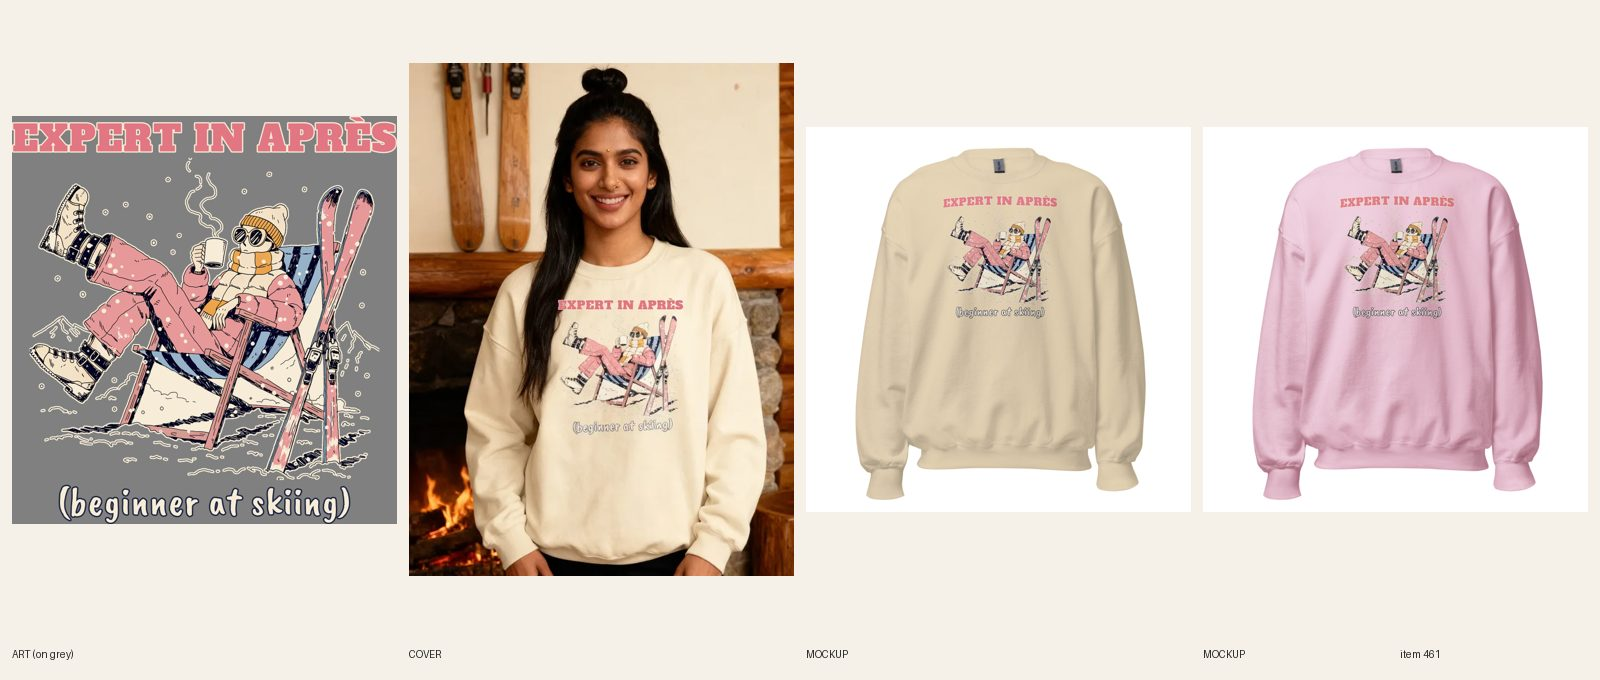
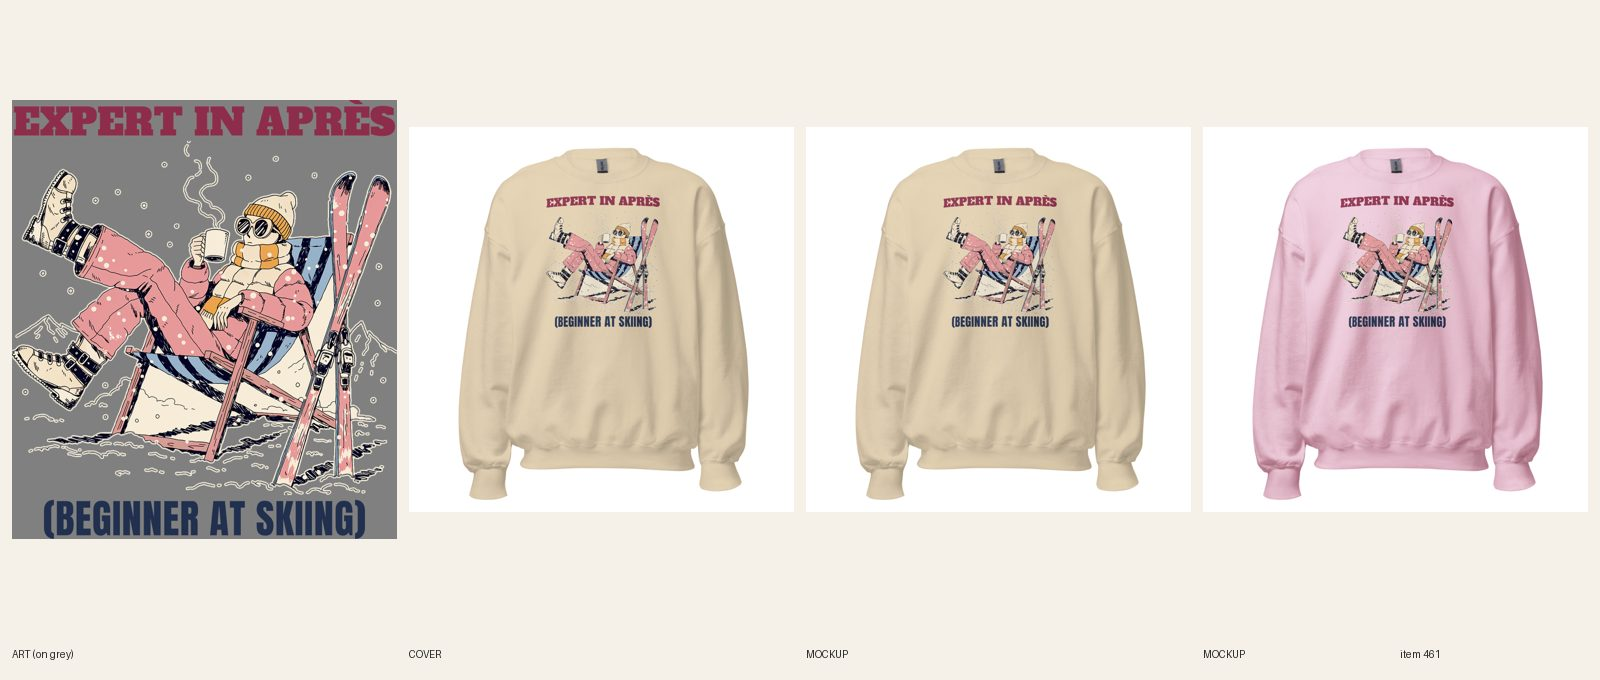
[B] review 461 Expert in Apres crewneck (type redo)
Claude-Session: https://claude.ai/code/session_01Gn1u6jYZcBA9RYGddZZkL4

Changed region(s): [[0.0, 0.0926, 0.5, 0.8647], [0.8438, 0.2779, 0.9062, 0.4941], [0.5938, 0.2779, 0.6562, 0.4941]]

diff --git a/docs/pipeline/461-apres-ski-crew-expert-in-apres.md b/docs/pipeline/461-apres-ski-crew-expert-in-apres.md
@@ -1,4 +1,4 @@
-status: BUILDING [B] 2026-10-19 17:29
+status: REVIEW
 shopify: gid://shopify/Product/15364241621296
 lane: B
 type: twin
@@ -25,3 +25,4 @@ kd: 41
 - 2026-10-17 23:20 UTC builder [B]: built from #460's approved print (Printful file 1088485600, no new art). R6.2 source check: #460 lettering is compose-print Alfa Slab + Caveat Brush on a hand-drawn scene, no ring, arch, disc or box; passes. DRAFT gid 15364241621296, category aa-1-13-14, Sand + Light Pink x S-3XL = 12, $34.99, compareAtPrice null, tags graphic-sweatshirts/sweatshirt/ai-art/intake-done. Keyword apres ski sweatshirt 880/KD41 in first sentence and meta once. FAQs 5 x 49-57 words incl. Dec 8. FW 1650 TOP 75 (print about 11.6 in tall), mockups for both colors + back, read at 400 px: both lines legible (dusty-pink line is lower contrast on Light Pink, readable). Printful sync 12/12. Cover reg 661, 1 fal call (~$0.06): hair bun still touched the first E; fixed per 9b by inpainting the ghost line and compositing the exact EXPERT IN APRES line from the print file; caption and figure are the model's own and unobstructed. Audit --handle: only "not active" error. design-crops and variant-photo-audit run (product not in the null list).
 - 2026-10-17 23:15 UTC director: LIVE. Sheet reviewed (R3/R4/R5/R6/R8/R13.3 pass), ACTIVE + Online Store/Headless/Google & YouTube, cohesion-audit --handle PASS.
 - 2026-10-18 17:22 UTC director: QUALITY RESET grade B (type only), REDO. The product stays ACTIVE (same handle, URL, title keyword). Keep the line "EXPERT IN APRÈS / (beginner at skiing)" and the art. 1. Type: Plain top bar, art, casual hand-script bottom line; script tiny/faint on mockups. 2. Quality reset type bar (docs/backlog/quality-reset.md, 'The new bar'): headline at least 90% of the art width, heavy, colors pulled from the art; second line at least 45% of the headline's height, never a thin script on a dark or mid garment; use the lettering as a shape (arch, stacked lockup, words breaking into the art), not a plain bar above and a script line below; no font used on more than 1 in 6 of the last 30 designs. 3. New print file means a new cover per R6.10 and a fresh review sheet (R7.7). While quality-reset.md says PAUSED, only lane A builds, and only the samples step 2 names.
+- 2026-10-19 17:55 UTC builder [B]: REDO type-only done. Same art (designs/b/ap-a.png cut from #460's print), new print designs/b/ap2.json: EXPERT IN APRÈS in Alfa Slab burgundy #8e2d4b at full art width, (BEGINNER AT SKIING) in Anton navy #22304f at 80% width; both fills dark (light file for Sand + Light Pink, no cream fill), print 3312x3773, FW 1650 TOP 75. Printful file 1089701403, resynced 12/12. Front mockups Sand + Light Pink replaced in place in Shopify (back unchanged); copy lettering sentence + FAQ ink updated. Phone-size read ok on both light colors. Cover: plain product shot (already in retired-covers.json). fal $0. Sheet docs/review/461.jpg.

diff --git a/docs/intake-log.md b/docs/intake-log.md
@@ -1,6 +1,8 @@
+2026-10-19 17:56 UTC — [B] Builder run: redid #461 Expert in Après crewneck (type only: Alfa Slab burgundy headline at full art width + Anton navy second line, dark-ink file for Sand/Light Pink, same art, FW 1650, 12/12 resynced, 2 fronts replaced in place, plain product shot). REVIEW. fal $0. Lock released.
 2026-10-19 17:28 UTC — [E] Builder run: redid #494 Twelve Labors tee (type only: heavy Cinzel 900 terracotta/dark lockup at full art width, same art, FW 1650, 35/35 resynced, 5 fronts replaced in place, plain product shot). REVIEW. fal $0. 1 redo per run cap reached. Lock released.
 RUNNING lane B since 2026-10-19 17:29 UTC
 2026-10-19 17:52 UTC — [C] Builder run: redid #567 Men's Christmas Bulking Season oversized hoodie (ported #282's BULKING / SEASON lockup; Santa art scaled to 60% of lockup width so it clears the pouch, FW 1500, Printful file 1089698191, relinked 12/12, 2 fronts replaced in place, copy updated, plain product shot). REVIEW. fal $0. 1 redo per run cap reached. Lock released.
+RUNNING lane C since 2026-10-19 17:30 UTC
 2026-10-19 18:00 UTC — [D] Director run (RESUMED). Inbox: the NYE / cheap-gifts / ugly-sweater item noted (NYE briefs written; NYE page waits for 3 A-grade NYE products LIVE; the guide is Claude's). Reviewed the 5 redo sheets plus the held A items. LIVE 6 (cap): #274 #370 #441 #557 (redos, already ACTIVE) and #634 #654 (approved 09:16; set ACTIVE + Online Store, Headless, Google & YouTube). Audit --handle PASS 0 warn on all 6. Side-by-side verdicts vs 493/479/483 are in each pipeline file. Copy fixed in Shopify: #370 Story said cream capitals; #441 line one said 'the perfect shirt'. REDO #490 (cream MOOD IMPROVED. with a keyline on Sand, R5.3.8); builder card 7e now says a keyline is not a light file. Still approved and held: #582 #633 #651 #653 and the 35 add-ons; #240 arrived at REVIEW during the run and waits for the next one. Briefs: #700 #701 #702 NYE (lane A 12 READY; B 12, C 12). Rulebook R5.2: RankHero pages no longer list top listings, so the favorites gate moves to the builder. No Telegram (midday digest went at 12:20; nothing needs Sam). Lock released.
 2026-10-19 17:16 UTC — [A] Builder run: redid #240 Resting My Eyes crewneck (ported #239's approved print; crew file at 80% art width so MY EYES fits the print area at FW 1650; 30/30 synced, 5 mockups replaced, plain product shot). REVIEW. fal $0. Lock released.
 2026-10-19 16:57 UTC — [C] Builder run: redid #441 Eight Arms oversized hoodie again (director R5.3.8: separate navy-headline Dust file 1089678989, Dust 6/6 relinked, Dust front replaced in place, Navy unchanged). REVIEW. fal $0. 1 redo per run cap reached. Lock released.
